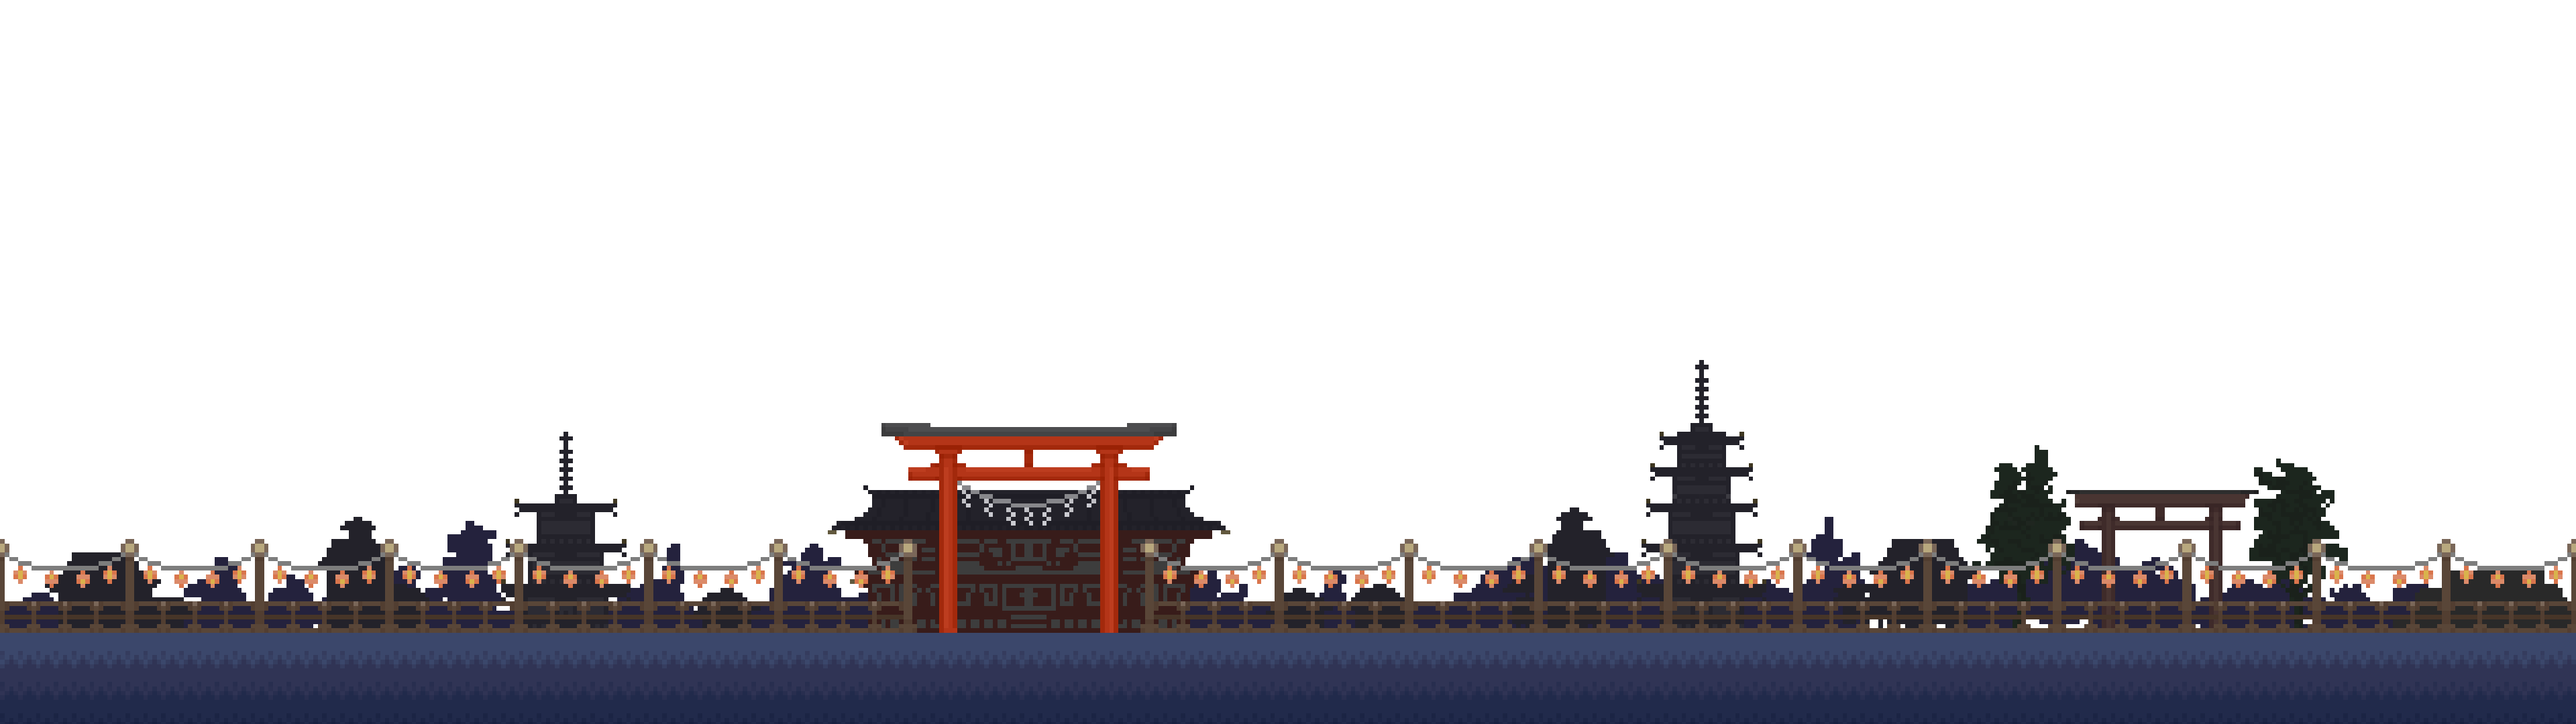
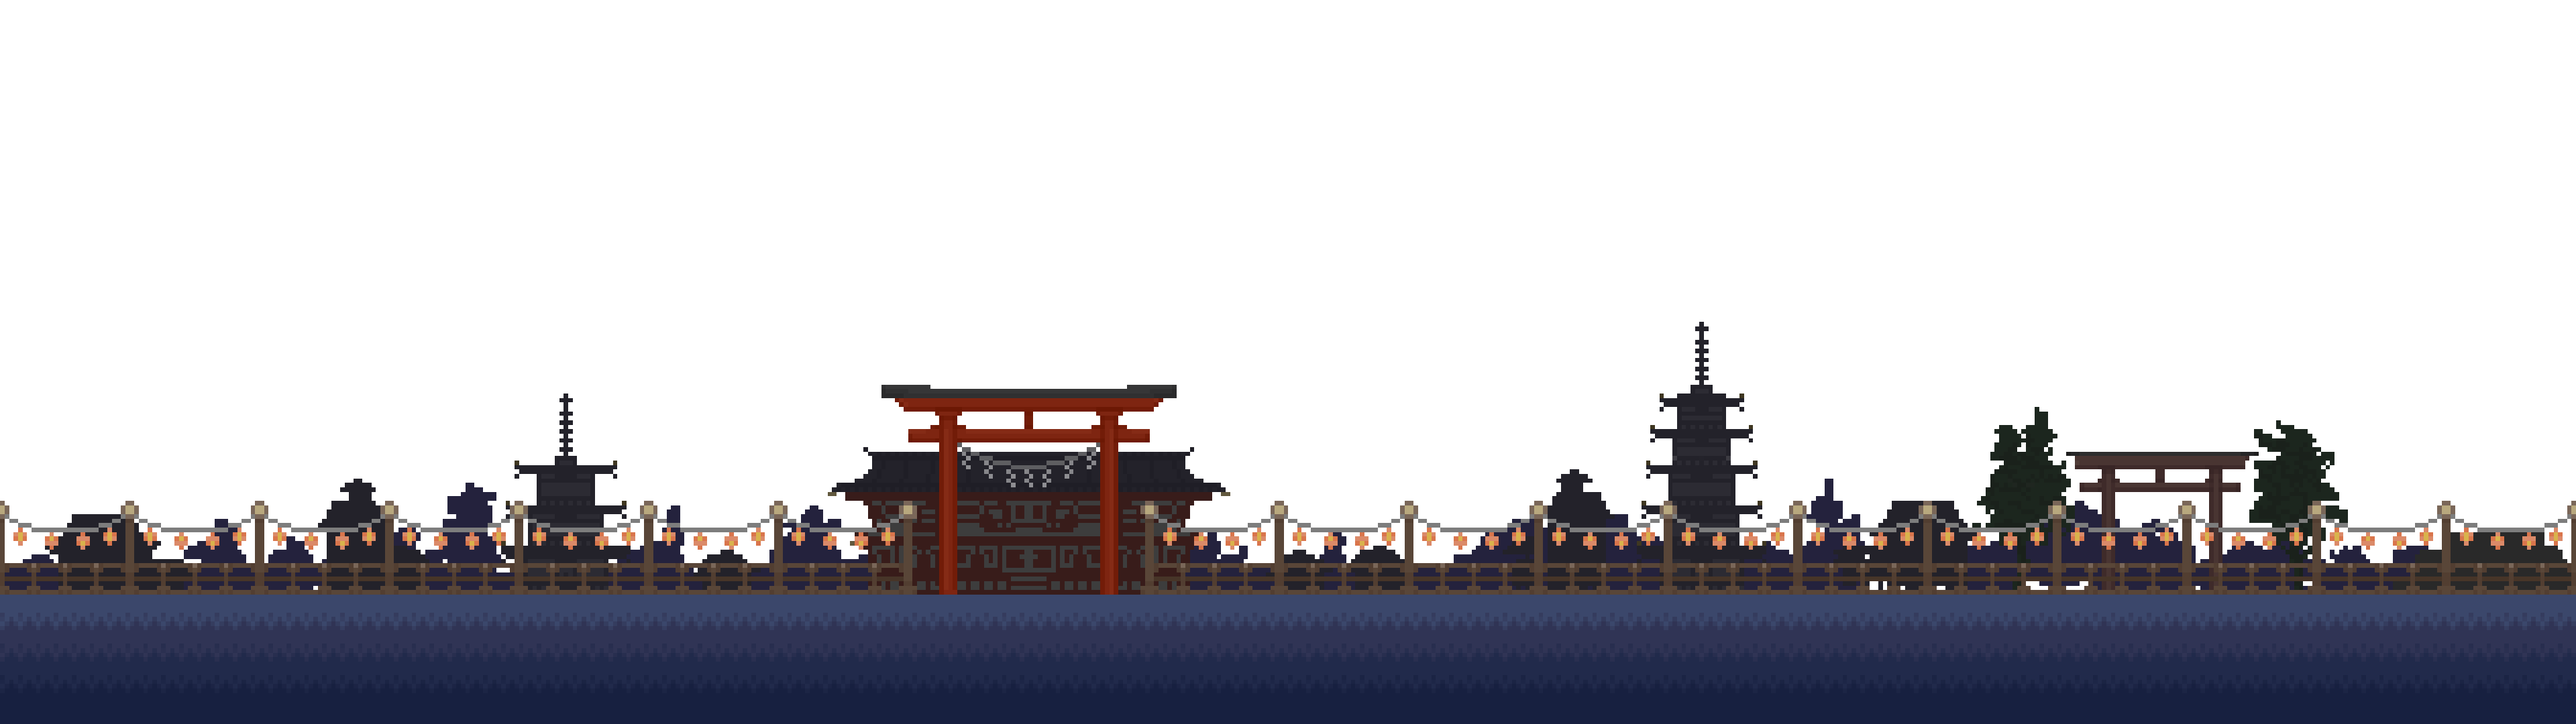
Darkened torii gate in BG and fixed powerup GUI issue

Changed region(s): [[0.0, 0.5194, 1.0, 0.9167], [0.625, 0.5194, 0.6875, 0.6111], [0.6562, 0.4583, 0.6875, 0.4889]]

diff --git a/Scripts/Managers/UIManager.cs b/Scripts/Managers/UIManager.cs
@@ -76,14 +76,24 @@ public class UIManager : Control
 		GetTree().Quit();
 	}
 	
-	public void Toggle_Powerup_Icon(string type)
+	public void Display_Powerup_Icon(string type)
 	{
 		if (type == "Jump")
-			JumpBoost.Visible = !JumpBoost.Visible;
+			JumpBoost.Visible = true;
 		else if (type == "Attack")
-			AttackBoost.Visible = !AttackBoost.Visible;
+			AttackBoost.Visible = true;
 		else if (type == "Speed")
-			SpeedBoost.Visible = !SpeedBoost.Visible;
+			SpeedBoost.Visible = true;
+	}
+	
+	public void Hide_Powerup_Icon(string type)
+	{
+		if (type == "Jump")
+			JumpBoost.Visible = false;
+		else if (type == "Attack")
+			AttackBoost.Visible = false;
+		else if (type == "Speed")
+			SpeedBoost.Visible = false;
 	}
 }
 

diff --git a/Scripts/PowerUps/AttackPowerUp.cs b/Scripts/PowerUps/AttackPowerUp.cs
@@ -9,7 +9,7 @@ public class AttackPowerUp : PowerUp
 	protected async override void ActivatePowerUp()
 	{
 		player.DamageBoost += damageIncrease;
-		Interface?.Toggle_Powerup_Icon("Attack");
+		Interface?.Display_Powerup_Icon("Attack");
 		
 		Timer newTimer = new Timer();
 		newTimer.OneShot = true;
@@ -22,7 +22,7 @@ public class AttackPowerUp : PowerUp
 		await ToSignal(newTimer, "timeout");
 		
 		player.DamageBoost -= damageIncrease;
-		Interface?.Toggle_Powerup_Icon("Attack");
+		Interface?.Hide_Powerup_Icon("Attack");
 
 		QueueFree();
 	}

diff --git a/Scripts/PowerUps/SpeedPowerUp.cs b/Scripts/PowerUps/SpeedPowerUp.cs
@@ -9,7 +9,7 @@ public class SpeedPowerUp : PowerUp
 	protected async override void ActivatePowerUp()
 	{
 		player.MaxSpeed += speedIncrease;
-		Interface?.Toggle_Powerup_Icon("Speed");
+		Interface?.Display_Powerup_Icon("Speed");
 		
 		Timer newTimer = new Timer();
 		newTimer.OneShot = true;
@@ -22,7 +22,7 @@ public class SpeedPowerUp : PowerUp
 		await ToSignal(newTimer, "timeout");
 		
 		player.MaxSpeed -= speedIncrease;
-		Interface?.Toggle_Powerup_Icon("Speed");
+		Interface?.Hide_Powerup_Icon("Speed");
 
 		QueueFree();
 	}

diff --git a/Scripts/PowerUps/JumpPowerUp.cs b/Scripts/PowerUps/JumpPowerUp.cs
@@ -9,7 +9,7 @@ public class JumpPowerUp : PowerUp
 	protected async override void ActivatePowerUp()
 	{
 		player.JumpSpeed += jumpIncrease;
-		Interface?.Toggle_Powerup_Icon("Jump");
+		Interface?.Display_Powerup_Icon("Jump");
 		
 		Timer newTimer = new Timer();
 		newTimer.OneShot = true;
@@ -22,7 +22,7 @@ public class JumpPowerUp : PowerUp
 		await ToSignal(newTimer, "timeout");
 
 		player.JumpSpeed -= jumpIncrease;
-		Interface?.Toggle_Powerup_Icon("Jump");
+		Interface?.Hide_Powerup_Icon("Jump");
 
 		QueueFree();
 	}
